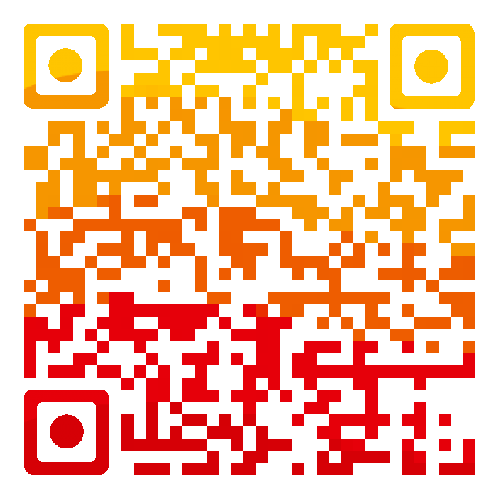
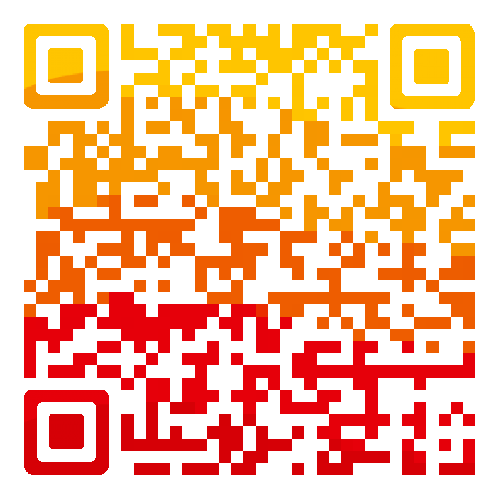
fix: 党员报到二维码; 站点名称

diff --git a/src/renderer/views/caidan.vue b/src/renderer/views/caidan.vue
@@ -99,42 +99,6 @@ export default {
 							<!-- <h3>“联西的六靠精神”书记工作室导师讲堂</h3> -->
 						</div>
 						<div class="activity" v-html="item.content"></div>
-						<!-- <div class="activity">
-							<div class="activity1">
-								<div class="title">
-									<span><i class="fa fa-file-text-o"></i></span>活动简介
-								</div>
-								<p>
-									邀请安亭镇书记工作室导师、联西村党总支书记唐祝平为辖区青年党员、后备干部
-									生动讲述联西村三十年的发展历程以及标志性事件、人物 、故事等，通过参观党建服务站以及交流分享
-									，让党员更直观的了解改革开放以来新农村发生的巨大变化和历史缩影，激励党员积极发挥先锋模范作用。
-								</p>
-							</div>
-							<div class="activity2">
-								<div class="title">
-									<span><i class="fa fa-clock-o"></i></span>活动时间
-								</div>
-								<p>
-									5月18日 13:30-15:00
-								</p>
-							</div>
-							<div class="activity3">
-								<div class="title">
-									<span><i class="fa fa-map-marker"></i></span>活动地点
-								</div>
-								<p>
-									联西村党建服务站（联西路28号）
-								</p>
-							</div>
-							<div class="activity4">
-								<div class="title">
-									<span><i class="fa fa-phone"></i></span>联系方式
-								</div>
-								<p>
-									陈艳：59561186
-								</p>
-							</div>
-						</div> -->
 					</div>
 				</div>
 			</div>

diff --git a/src/renderer/views/home.vue b/src/renderer/views/home.vue
@@ -189,7 +189,7 @@
           </div>
           <div class="text">
             <h3>联系我们</h3>
-            <p><span><i class="fa fa-map-marker"></i>普陀区桃浦镇春光村党建服务站：</span> {{ bannerPost.address }}</p>
+            <p><span><i class="fa fa-map-marker"></i>{{ bannerPost.title }}：</span> {{ bannerPost.address }}</p>
             <p><span><i class="fa fa-phone"></i>联系电话：</span> {{ bannerPost.phone }}</p>
           </div>
         </div>
@@ -197,11 +197,6 @@
           v-model="qrcode"
           class-name="vertical-center-modal">
           <img src="~@/assets/images/qrcode_baodao.png" width="100%" height="100%"/>
-        </Modal>
-        <Modal
-          v-model="qrcodeWechat"
-          class-name="vertical-center-modal">
-          <img src="~@/assets/images/qrcode_wechat.jpg" width="100%" height="100%"/>
         </Modal>
       </div>
 
@@ -258,7 +253,6 @@ export default {
       },
       bannerPost: {},
       qrcode: false,
-      qrcodeWechat: false,
       weather: {},
       signedInMemberCount: 0,
       date: {},
@@ -308,13 +302,6 @@ export default {
         this.qrcode = true;
       } else {
         this.$router.push('/baodao')
-      }
-    },
-    goToGeren() {
-      if (!this.isWeb) {
-        this.qrcodeWechat = true;
-      } else {
-        this.$router.push('/geren')
       }
     },
     wating() {

diff --git a/src/renderer/main.js b/src/renderer/main.js
@@ -45,13 +45,13 @@ async function configWeixin() {
   wx.config({jsApiList: ['onMenuShareTimeline', 'onMenuShareAppMessage'], ...args});
   wx.ready(function() {
     wx.onMenuShareTimeline({
-      title: '春光村党建服务站',
+      title: '春光村党群服务站',
       link: 'http://pbjd-www.hbird.com.cn',
       imgUrl: 'http://pbjd-www.hbird.com.cn/static/images/logo.png',
       success(data) {}
     });
     wx.onMenuShareAppMessage({ 
-      title: '春光村党建服务站',
+      title: '春光村党群服务站',
       desc: '',
       link: 'http://pbjd-www.hbird.com.cn',
       imgUrl: 'http://pbjd-www.hbird.com.cn/static/images/logo.png',
